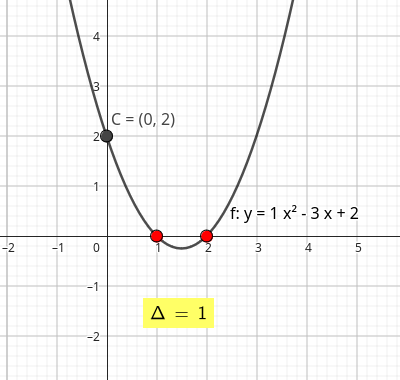
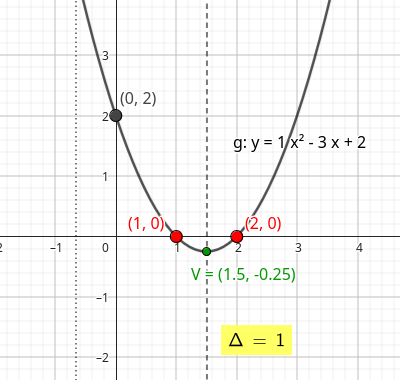
atualização 50

Changed region(s): [[0.0, 0.0, 1.0, 1.0], [0.21, 0.6368, 0.3, 0.6658], [0.81, 0.0, 0.84, 0.0579]]

diff --git a/minimal-5.html b/minimal-5.html
@@ -154,6 +154,7 @@ window.MathJax = {
 <li class="toc-item toc-subsection"><div class="toc-title-box"><a href="minimal-5.html#minimal-5-3" class="internal"><span class="codenumber">3.2</span> <span class="title">Calcular zeros da função utilizando a forma padrão</span></a></div></li>
 <li class="toc-item toc-subsection"><div class="toc-title-box"><a href="minimal-5.html#minimal-5-4" class="internal"><span class="codenumber">3.3</span> <span class="title">Zero da função quadrática nos gráficos</span></a></div></li>
 <li class="toc-item toc-subsection"><div class="toc-title-box"><a href="minimal-5.html#minimal-5-5" class="internal"><span class="codenumber">3.4</span> <span class="title">Discriminante</span></a></div></li>
+<li class="toc-item toc-subsection"><div class="toc-title-box"><a href="minimal-5.html#minimal-5-6" class="internal"><span class="codenumber">3.5</span> <span class="title">Máximos e Mínimos da Função Quadrática</span></a></div></li>
 </ul>
 </li>
 <li class="toc-item toc-section">
@@ -263,7 +264,7 @@ y=x^2-4x+4+1=x^2-4x+5\text{,}
 </ol></div>
 <div class="para" id="minimal-5-5-8">Vamos comparar três exemplos de gráficos e fórmulas de funções quadráticas que apresentam os valores do discriminante e como podemos observar no gráfico.</div>
 <div class="para logical" id="minimal-5-5-9">
-<div class="para">Veja o gráfico da função quadrática <span class="process-math">\(f(x)=x^2-3x+2\text{.}\)</span>
+<div class="para">Veja o gráfico da função quadrática <span class="process-math">\(g(x)=x^2-3x+2\text{.}\)</span>
 </div>
 <ul class="disc">
 <li id="minimal-5-5-9-2-1"><div class="para" id="p-derived-minimal-5-5-9-2-1">Coeficientes: <span class="process-math">\(a=1\text{,}\)</span> <span class="process-math">\(b=-3\)</span> e <span class="process-math">\(c=2\text{.}\)</span>
@@ -272,10 +273,46 @@ y=x^2-4x+4+1=x^2-4x+5\text{,}
 <li id="minimal-5-5-9-2-3"><div class="para" id="p-derived-minimal-5-5-9-2-3">Como <span class="process-math">\(a&gt;0\text{,}\)</span> então a concavidade da parábola é vidada para cima.</div></li>
 <li id="minimal-5-5-9-2-4"><div class="para" id="p-derived-minimal-5-5-9-2-4">O coeficiente <span class="process-math">\(c=2\)</span> mostra que a parábola passa pelo ponto <span class="process-math">\((0,2)\text{.}\)</span>
 </div></li>
-<li id="minimal-5-5-9-2-5">Gráfico: <div class="image-box" style="width: 80%; margin-left: 10%; margin-right: 10%;"><img src="delta1.png" class="contained"></div>
+<li id="minimal-5-5-9-2-5"><div class="para" id="p-derived-minimal-5-5-9-2-5">O vértice da função é o ponto <span class="process-math">\(V=\left(\dfrac{3}{2},-\dfrac{1}{4}\right)\text{.}\)</span>
+</div></li>
+<li id="minimal-5-5-9-2-6">Gráfico: <div class="image-box" style="width: 80%; margin-left: 10%; margin-right: 10%;"><img src="delta1.png" class="contained"></div>
 </li>
 </ul>
-</div></section></section></div>
+</div>
+<div class="para logical" id="minimal-5-5-10">
+<div class="para">Veja o gráfico da função quadrática <span class="process-math">\(g(x)=-\dfrac{9}{4}x^2-3x-1\text{.}\)</span>
+</div>
+<ul class="disc">
+<li id="minimal-5-5-10-2-1"><div class="para" id="p-derived-minimal-5-5-10-2-1">Coeficientes: <span class="process-math">\(a=\dfrac{9}{4}\text{,}\)</span> <span class="process-math">\(b=-3\)</span> e <span class="process-math">\(c=-1\text{.}\)</span>
+</div></li>
+<li id="minimal-5-5-10-2-2"><div class="para" id="p-derived-minimal-5-5-10-2-2">Discriminante: <span class="process-math">\(\Delta=b^2-4ac=(-3)^2-4\cdot \dfrac{9}{4}\cdot (-1)=9-9=0\text{.}\)</span> <span class="process-math">\(\Delta=0\text{,}\)</span> portanto, a função possui uma raíz real.</div></li>
+<li id="minimal-5-5-10-2-3"><div class="para" id="p-derived-minimal-5-5-10-2-3">Como <span class="process-math">\(a&lt;0\text{,}\)</span> então a concavidade da parábola é vidada para cima.</div></li>
+<li id="minimal-5-5-10-2-4"><div class="para" id="p-derived-minimal-5-5-10-2-4">O coeficiente <span class="process-math">\(c=-1\)</span> mostra que a parábola passa pelo ponto <span class="process-math">\((0,-1)\text{.}\)</span>
+</div></li>
+<li id="minimal-5-5-10-2-5"><div class="para" id="p-derived-minimal-5-5-10-2-5">O vértice da função é o ponto <span class="process-math">\(V=\left(-\dfrac{2}{3},0\right)\text{.}\)</span>
+</div></li>
+<li id="minimal-5-5-10-2-6">Gráfico: <div class="image-box" style="width: 80%; margin-left: 10%; margin-right: 10%;"><img src="delta2.png" class="contained"></div>
+</li>
+</ul>
+</div>
+<div class="para logical" id="minimal-5-5-11">
+<div class="para">Veja o gráfico da função quadrática <span class="process-math">\(g(x)=2x^2-4x+3\text{.}\)</span>
+</div>
+<ul class="disc">
+<li id="minimal-5-5-11-2-1"><div class="para" id="p-derived-minimal-5-5-11-2-1">Coeficientes: <span class="process-math">\(a=2\text{,}\)</span> <span class="process-math">\(b=-4\)</span> e <span class="process-math">\(c=3\text{.}\)</span>
+</div></li>
+<li id="minimal-5-5-11-2-2"><div class="para" id="p-derived-minimal-5-5-11-2-2">Discriminante: <span class="process-math">\(\Delta=b^2-4ac=(-4)^2-4\cdot 2\cdot 3=16-24=-12\text{.}\)</span> <span class="process-math">\(\Delta&lt;0\text{,}\)</span> portanto, a função não possui raízes reais.</div></li>
+<li id="minimal-5-5-11-2-3"><div class="para" id="p-derived-minimal-5-5-11-2-3">Como <span class="process-math">\(a&gt;0\text{,}\)</span> então a concavidade da parábola é vidada para cima.</div></li>
+<li id="minimal-5-5-11-2-4"><div class="para" id="p-derived-minimal-5-5-11-2-4">O coeficiente <span class="process-math">\(c=3\)</span> mostra que a parábola passa pelo ponto <span class="process-math">\((0,3)\text{.}\)</span>
+</div></li>
+<li id="minimal-5-5-11-2-5"><div class="para" id="p-derived-minimal-5-5-11-2-5">O vértice da função é o ponto <span class="process-math">\(V=(1,1)\text{.}\)</span>
+</div></li>
+<li id="minimal-5-5-11-2-6">Gráfico: <div class="image-box" style="width: 80%; margin-left: 10%; margin-right: 10%;"><img src="delta3.png" class="contained"></div>
+</li>
+</ul>
+</div></section><section class="subsection" id="minimal-5-6"><h3 class="heading hide-type">
+<span class="type">Subseção</span><span class="space"> </span><span class="codenumber">3.5</span><span class="space"> </span><span class="title">Máximos e Mínimos da Função Quadrática</span>
+</h3></section></section></div>
 <div class="ptx-content-footer">
 <a class="previous-button button" href="minimal-4.html" title="Anterior"><span class="icon material-symbols-outlined" aria-hidden="true">&#xe5cb;</span><span class="name">Anterior</span></a><a class="top-button button" href="#" title="Top"><span class="icon material-symbols-outlined" aria-hidden="true">&#xe5ce;</span><span class="name">Top</span></a><a class="next-button button" href="minimal-6.html" title="Próximo"><span class="name">Próximo</span><span class="icon material-symbols-outlined" aria-hidden="true">&#xe5cc;</span></a>
 </div></main>

diff --git a/lunr-pretext-search-index.js b/lunr-pretext-search-index.js
@@ -1204,7 +1204,7 @@ var ptx_lunr_docs = [
   "type": "Seção",
   "number": "3",
   "title": "Zero da Função Quadrática",
-  "body": " Zero da Função Quadrática   Calcular zeros da função utilizando a forma canônica    Calcular zeros da função utilizando a forma padrão    Zero da função quadrática nos gráficos    Discriminante  Como já foi comentado no capítulo Escrevendo a Função Quadrática na Forma Canônica , em Demonstração, Discriminante é o nome dado ao símbolo , uma constante cujo valor é , ou seja, .  No estudo de funções quadráticas, o discriminante da função quadrática indica quantas raízes reais a função possui. Graficamente, isto indica o número de vezes que a parábola intersecta o eixo das abscissas (eixo x). Ou seja:    Se , então a função possui duas raízes ou dois zeros da função. Logo, a parábola intersecta duas vezes o eixo x.  Se , então a função possui uma raíz ou um zero da função. Logo, a parábola intersecta uma vez o eixo x.  Se , então a função não possui raízes ou zeros da função reais. Logo, a parábola não intersecta o eixo x.    Observe o gráfico interativo em que o valor de está destacado em amarelo, a fórmula da função quadrática está destacado em azul e os zeros da função aparecem em vermelho. Mude os valores dos coeficientes , e , utilizando os controles deslizantes, atentando ao valor de e a quantidade de zeros da função.   Veja alguns exemplos de como determinar o valor do discriminante em funções quadráicas:     Determine o valor do discriminante nas funções a seguir:                        Determine quantas raízes reais as funções quadráticas a seguir possuem.      Escrevendo a função quadrática na forma padrão, temos que:  , onde , e . Logo . Portanto a função não possui raízes pois .       Como , e , temos que:  Portanto, como então a função possui duas raízes distintas.      Como , e , temos que:  Portanto, como então a função possui um zero da função real.       Vamos comparar três exemplos de gráficos e fórmulas de funções quadráticas que apresentam os valores do discriminante e como podemos observar no gráfico.  Veja o gráfico da função quadrática .  Coeficientes: , e .  Discriminante: . , portanto, duas raízes reais distintas.  Como , então a concavidade da parábola é vidada para cima.  O coeficiente mostra que a parábola passa pelo ponto .  Gráfico:      "
+  "body": " Zero da Função Quadrática   Calcular zeros da função utilizando a forma canônica    Calcular zeros da função utilizando a forma padrão    Zero da função quadrática nos gráficos    Discriminante  Como já foi comentado no capítulo Escrevendo a Função Quadrática na Forma Canônica , em Demonstração, Discriminante é o nome dado ao símbolo , uma constante cujo valor é , ou seja, .  No estudo de funções quadráticas, o discriminante da função quadrática indica quantas raízes reais a função possui. Graficamente, isto indica o número de vezes que a parábola intersecta o eixo das abscissas (eixo x). Ou seja:    Se , então a função possui duas raízes ou dois zeros da função. Logo, a parábola intersecta duas vezes o eixo x.  Se , então a função possui uma raíz ou um zero da função. Logo, a parábola intersecta uma vez o eixo x.  Se , então a função não possui raízes ou zeros da função reais. Logo, a parábola não intersecta o eixo x.    Observe o gráfico interativo em que o valor de está destacado em amarelo, a fórmula da função quadrática está destacado em azul e os zeros da função aparecem em vermelho. Mude os valores dos coeficientes , e , utilizando os controles deslizantes, atentando ao valor de e a quantidade de zeros da função.   Veja alguns exemplos de como determinar o valor do discriminante em funções quadráicas:     Determine o valor do discriminante nas funções a seguir:                        Determine quantas raízes reais as funções quadráticas a seguir possuem.      Escrevendo a função quadrática na forma padrão, temos que:  , onde , e . Logo . Portanto a função não possui raízes pois .       Como , e , temos que:  Portanto, como então a função possui duas raízes distintas.      Como , e , temos que:  Portanto, como então a função possui um zero da função real.       Vamos comparar três exemplos de gráficos e fórmulas de funções quadráticas que apresentam os valores do discriminante e como podemos observar no gráfico.  Veja o gráfico da função quadrática .  Coeficientes: , e .  Discriminante: . , portanto, duas raízes reais distintas.  Como , então a concavidade da parábola é vidada para cima.  O coeficiente mostra que a parábola passa pelo ponto .  O vértice da função é o ponto .  Gráfico:     Veja o gráfico da função quadrática .  Coeficientes: , e .  Discriminante: . , portanto, a função possui uma raíz real.  Como , então a concavidade da parábola é vidada para cima.  O coeficiente mostra que a parábola passa pelo ponto .  O vértice da função é o ponto .  Gráfico:     Veja o gráfico da função quadrática .  Coeficientes: , e .  Discriminante: . , portanto, a função não possui raízes reais.  Como , então a concavidade da parábola é vidada para cima.  O coeficiente mostra que a parábola passa pelo ponto .  O vértice da função é o ponto .  Gráfico:       Máximos e Mínimos da Função Quadrática   "
 },
 {
   "id": "minimal-6",

diff --git a/minimal-6.html b/minimal-6.html
@@ -154,6 +154,7 @@ window.MathJax = {
 <li class="toc-item toc-subsection"><div class="toc-title-box"><a href="minimal-5.html#minimal-5-3" class="internal"><span class="codenumber">3.2</span> <span class="title">Calcular zeros da função utilizando a forma padrão</span></a></div></li>
 <li class="toc-item toc-subsection"><div class="toc-title-box"><a href="minimal-5.html#minimal-5-4" class="internal"><span class="codenumber">3.3</span> <span class="title">Zero da função quadrática nos gráficos</span></a></div></li>
 <li class="toc-item toc-subsection"><div class="toc-title-box"><a href="minimal-5.html#minimal-5-5" class="internal"><span class="codenumber">3.4</span> <span class="title">Discriminante</span></a></div></li>
+<li class="toc-item toc-subsection"><div class="toc-title-box"><a href="minimal-5.html#minimal-5-6" class="internal"><span class="codenumber">3.5</span> <span class="title">Máximos e Mínimos da Função Quadrática</span></a></div></li>
 </ul>
 </li>
 <li class="toc-item toc-section active">

diff --git a/minimal-2.html b/minimal-2.html
@@ -154,6 +154,7 @@ window.MathJax = {
 <li class="toc-item toc-subsection"><div class="toc-title-box"><a href="minimal-5.html#minimal-5-3" class="internal"><span class="codenumber">3.2</span> <span class="title">Calcular zeros da função utilizando a forma padrão</span></a></div></li>
 <li class="toc-item toc-subsection"><div class="toc-title-box"><a href="minimal-5.html#minimal-5-4" class="internal"><span class="codenumber">3.3</span> <span class="title">Zero da função quadrática nos gráficos</span></a></div></li>
 <li class="toc-item toc-subsection"><div class="toc-title-box"><a href="minimal-5.html#minimal-5-5" class="internal"><span class="codenumber">3.4</span> <span class="title">Discriminante</span></a></div></li>
+<li class="toc-item toc-subsection"><div class="toc-title-box"><a href="minimal-5.html#minimal-5-6" class="internal"><span class="codenumber">3.5</span> <span class="title">Máximos e Mínimos da Função Quadrática</span></a></div></li>
 </ul>
 </li>
 <li class="toc-item toc-section">

diff --git a/minimal-3.html b/minimal-3.html
@@ -154,6 +154,7 @@ window.MathJax = {
 <li class="toc-item toc-subsection"><div class="toc-title-box"><a href="minimal-5.html#minimal-5-3" class="internal"><span class="codenumber">3.2</span> <span class="title">Calcular zeros da função utilizando a forma padrão</span></a></div></li>
 <li class="toc-item toc-subsection"><div class="toc-title-box"><a href="minimal-5.html#minimal-5-4" class="internal"><span class="codenumber">3.3</span> <span class="title">Zero da função quadrática nos gráficos</span></a></div></li>
 <li class="toc-item toc-subsection"><div class="toc-title-box"><a href="minimal-5.html#minimal-5-5" class="internal"><span class="codenumber">3.4</span> <span class="title">Discriminante</span></a></div></li>
+<li class="toc-item toc-subsection"><div class="toc-title-box"><a href="minimal-5.html#minimal-5-6" class="internal"><span class="codenumber">3.5</span> <span class="title">Máximos e Mínimos da Função Quadrática</span></a></div></li>
 </ul>
 </li>
 <li class="toc-item toc-section">

diff --git a/minimal-4.html b/minimal-4.html
@@ -154,6 +154,7 @@ window.MathJax = {
 <li class="toc-item toc-subsection"><div class="toc-title-box"><a href="minimal-5.html#minimal-5-3" class="internal"><span class="codenumber">3.2</span> <span class="title">Calcular zeros da função utilizando a forma padrão</span></a></div></li>
 <li class="toc-item toc-subsection"><div class="toc-title-box"><a href="minimal-5.html#minimal-5-4" class="internal"><span class="codenumber">3.3</span> <span class="title">Zero da função quadrática nos gráficos</span></a></div></li>
 <li class="toc-item toc-subsection"><div class="toc-title-box"><a href="minimal-5.html#minimal-5-5" class="internal"><span class="codenumber">3.4</span> <span class="title">Discriminante</span></a></div></li>
+<li class="toc-item toc-subsection"><div class="toc-title-box"><a href="minimal-5.html#minimal-5-6" class="internal"><span class="codenumber">3.5</span> <span class="title">Máximos e Mínimos da Função Quadrática</span></a></div></li>
 </ul>
 </li>
 <li class="toc-item toc-section">

diff --git a/minimal.html b/minimal.html
@@ -154,6 +154,7 @@ window.MathJax = {
 <li class="toc-item toc-subsection"><div class="toc-title-box"><a href="minimal-5.html#minimal-5-3" class="internal"><span class="codenumber">3.2</span> <span class="title">Calcular zeros da função utilizando a forma padrão</span></a></div></li>
 <li class="toc-item toc-subsection"><div class="toc-title-box"><a href="minimal-5.html#minimal-5-4" class="internal"><span class="codenumber">3.3</span> <span class="title">Zero da função quadrática nos gráficos</span></a></div></li>
 <li class="toc-item toc-subsection"><div class="toc-title-box"><a href="minimal-5.html#minimal-5-5" class="internal"><span class="codenumber">3.4</span> <span class="title">Discriminante</span></a></div></li>
+<li class="toc-item toc-subsection"><div class="toc-title-box"><a href="minimal-5.html#minimal-5-6" class="internal"><span class="codenumber">3.5</span> <span class="title">Máximos e Mínimos da Função Quadrática</span></a></div></li>
 </ul>
 </li>
 <li class="toc-item toc-section">

diff --git a/index.html b/index.html
@@ -2,7 +2,7 @@
 <html>
 <!--********************************************-->
 <!--*       Generated from PreTeXt source      *-->
-<!--*       on 2024-10-11T15:15:59-03:00       *-->
+<!--*       on 2024-10-11T16:50:18-03:00       *-->
 <!--*   A recent stable commit (2022-07-01):   *-->
 <!--* 6c761d3dba23af92cba35001c852aac04ae99a5f *-->
 <!--*                                          *-->
